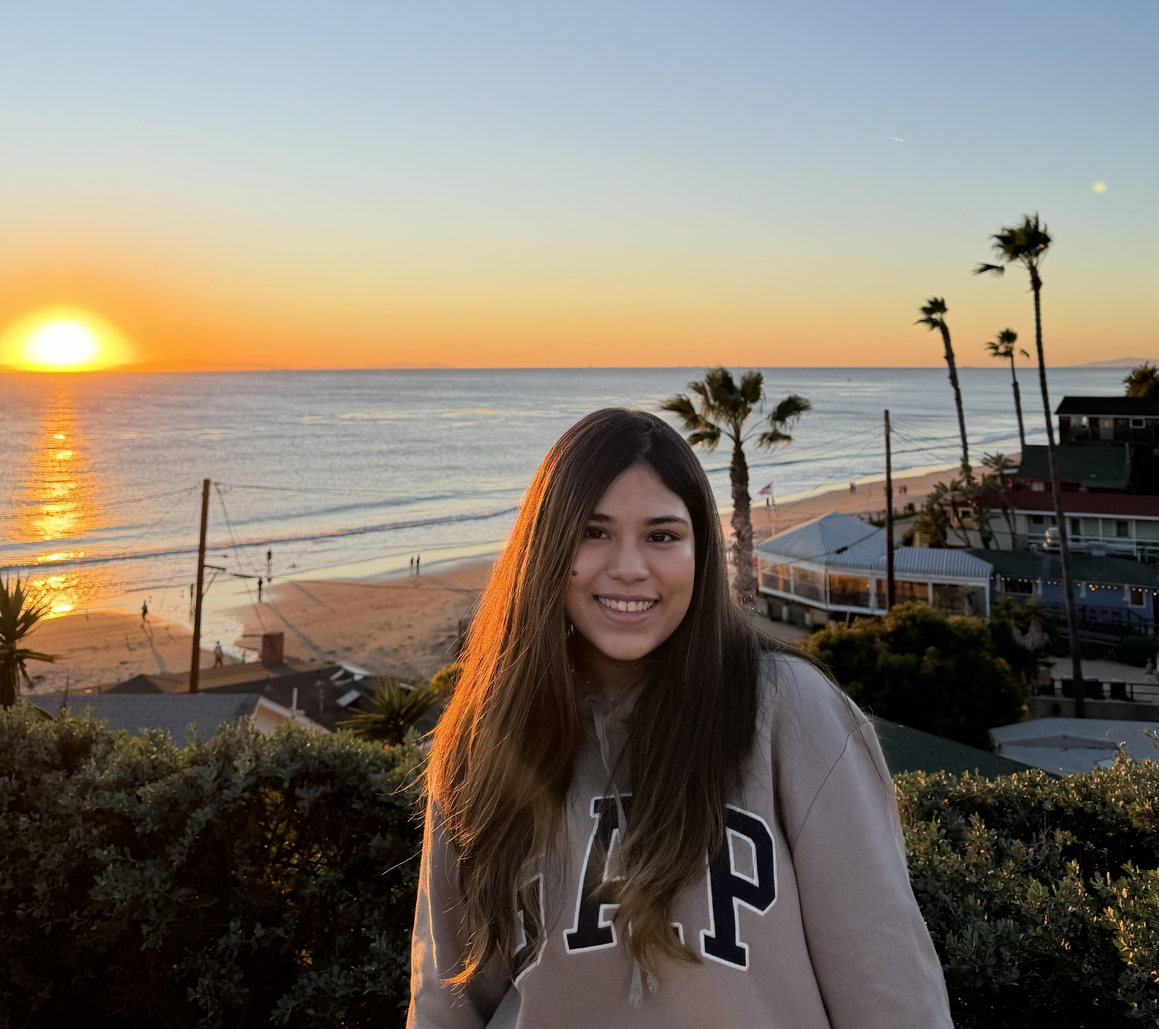
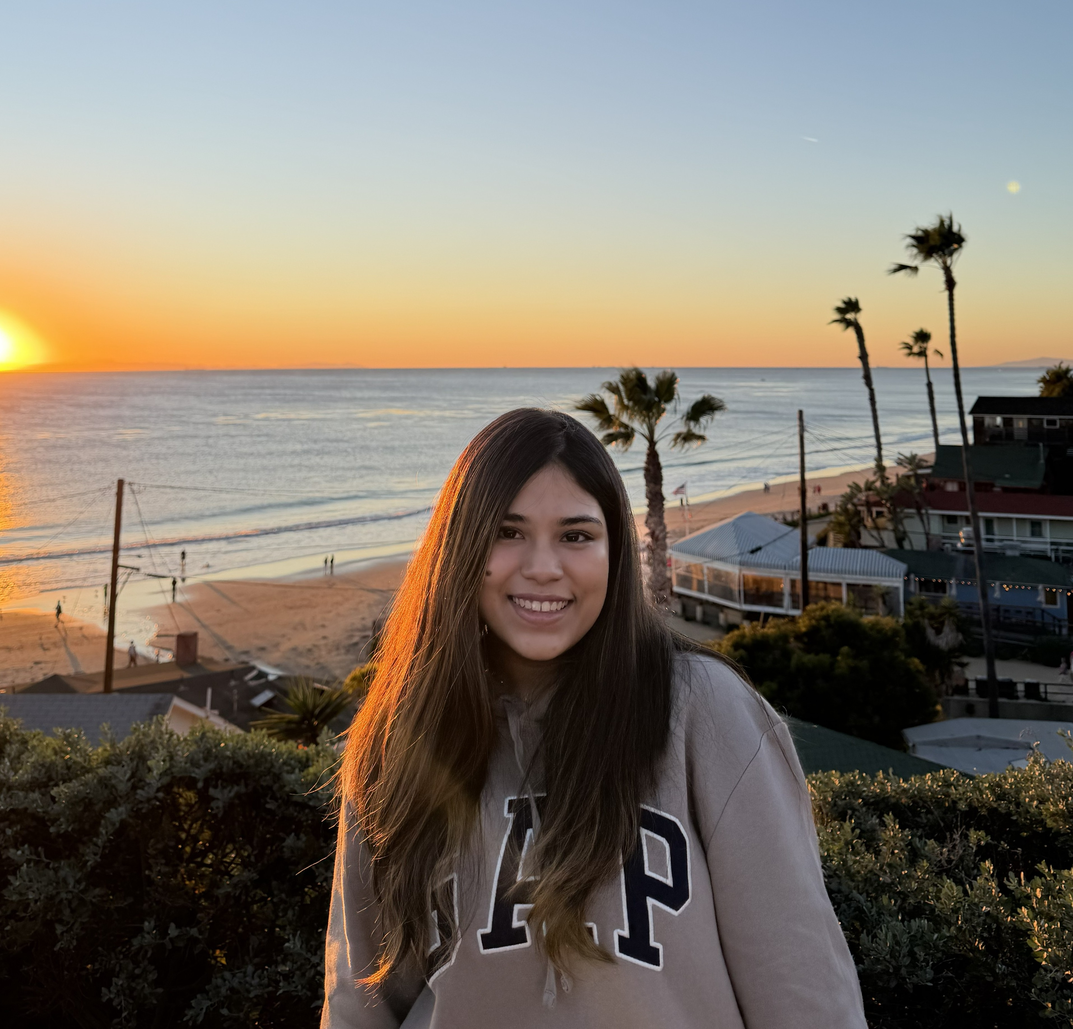
fixing photos

diff --git a/site/index.html b/site/index.html
@@ -105,7 +105,7 @@
     <div class="chapter reveal"><span>Ch. 01</span> The throughline</div>
     <div class="story__grid">
       <div class="story__media reveal">
-        <img src="assets/img/rohptf.jpg" alt="Rohini Das" />
+        <img src="assets/img/roh.jpg" alt="Rohini Das" />
         <div class="story__media-glow"></div>
       </div>
       <div class="story__copy">
